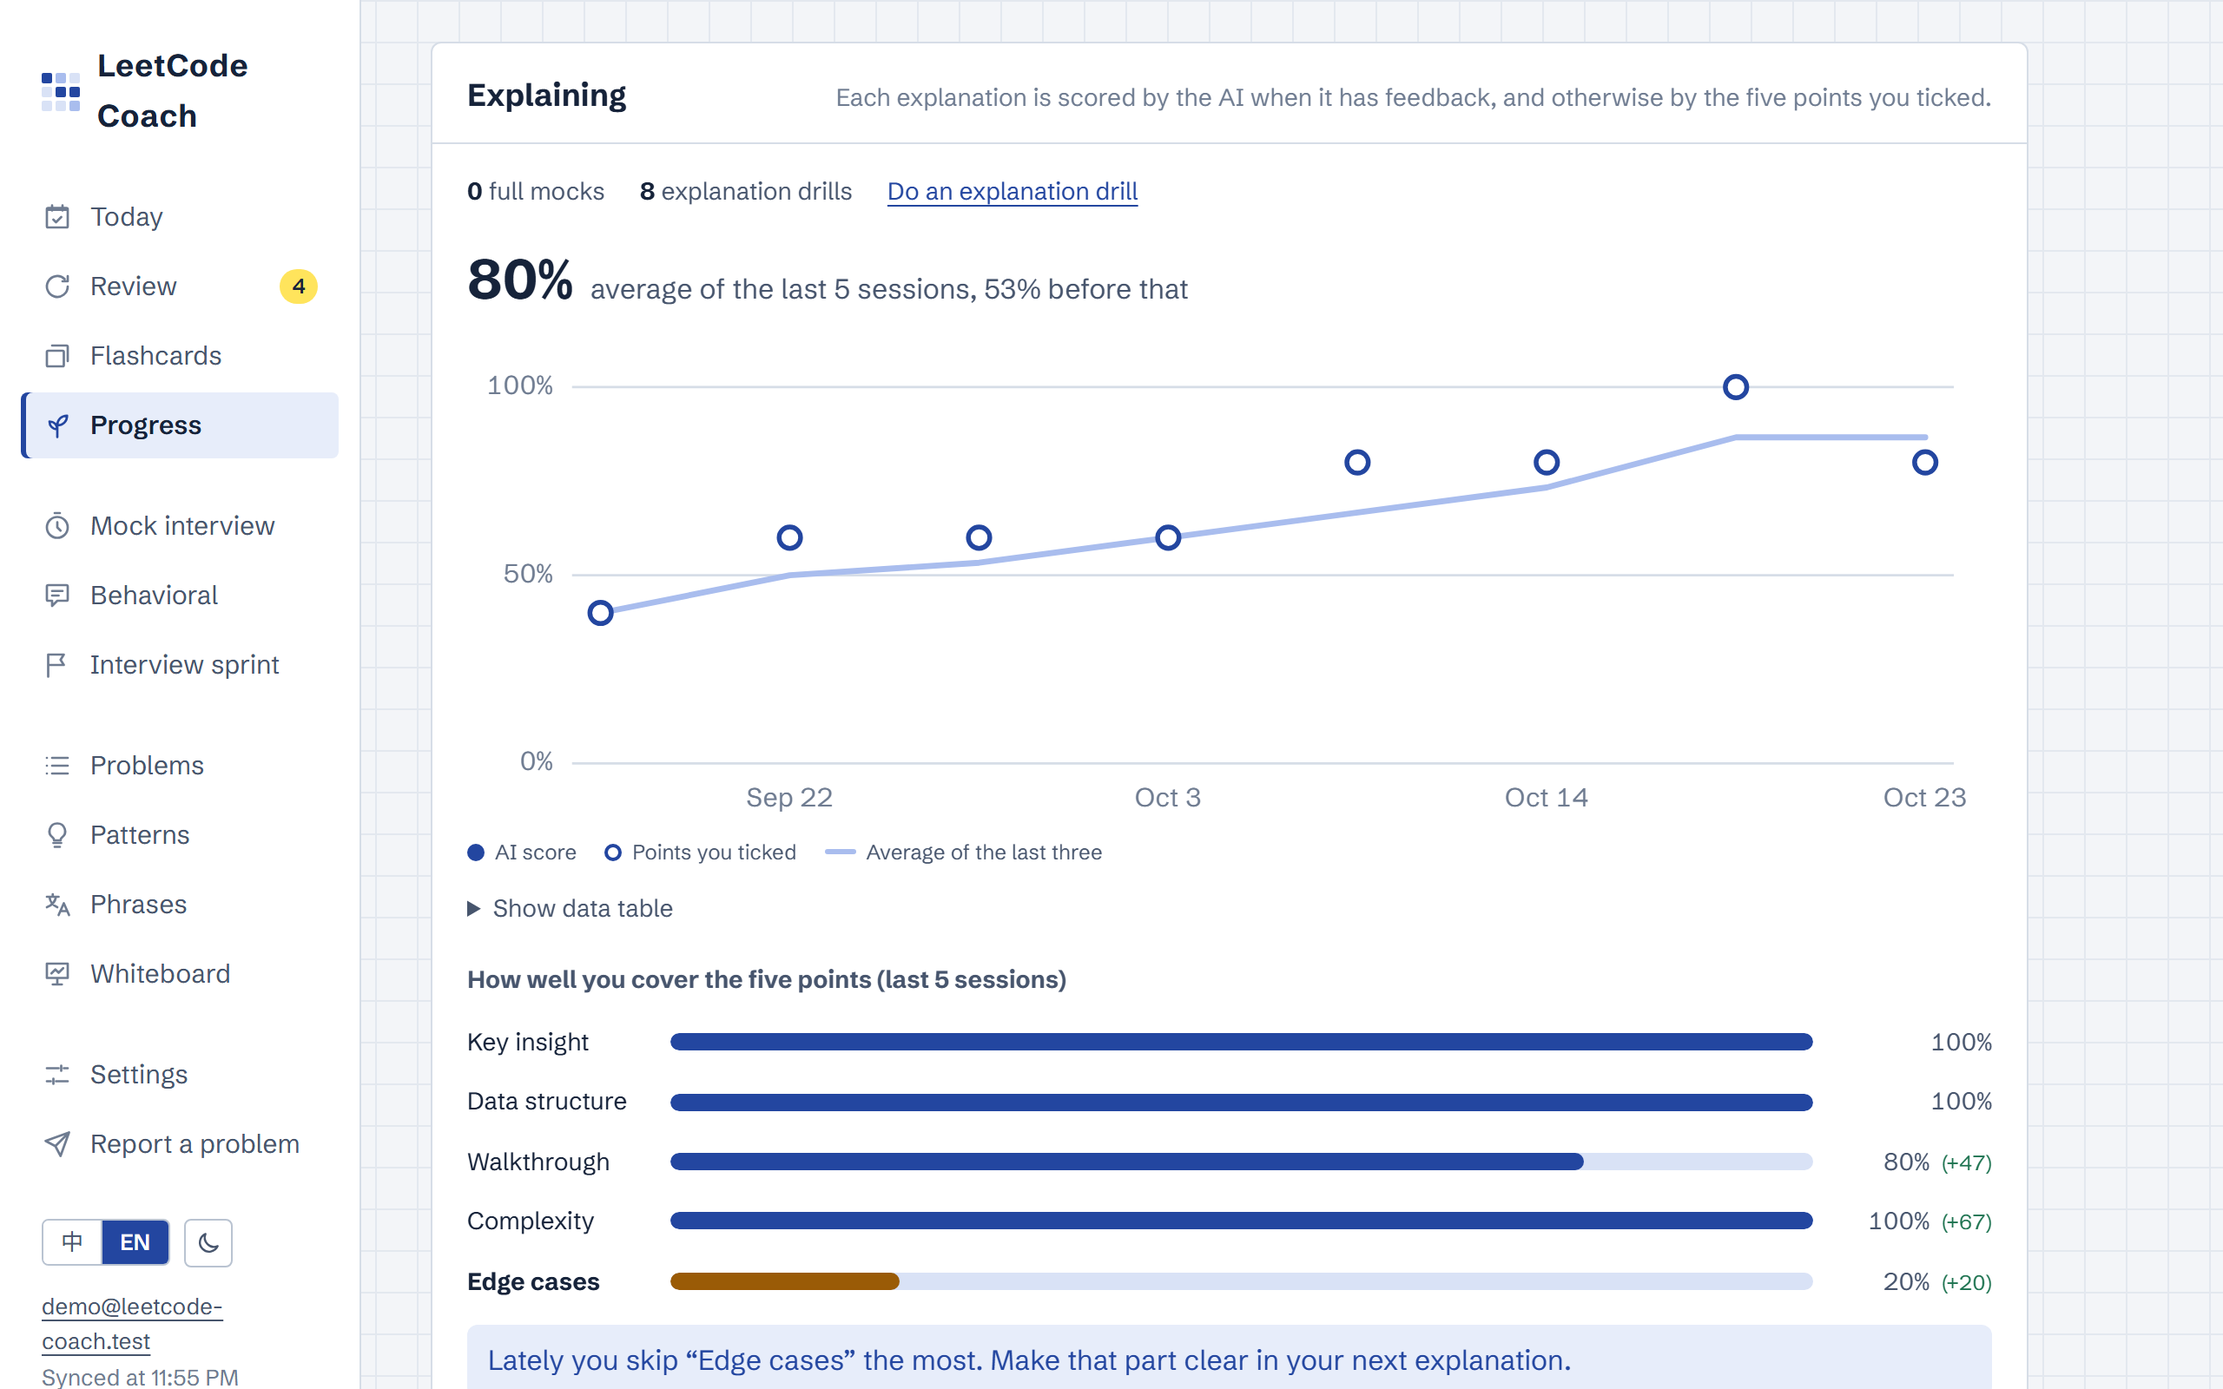
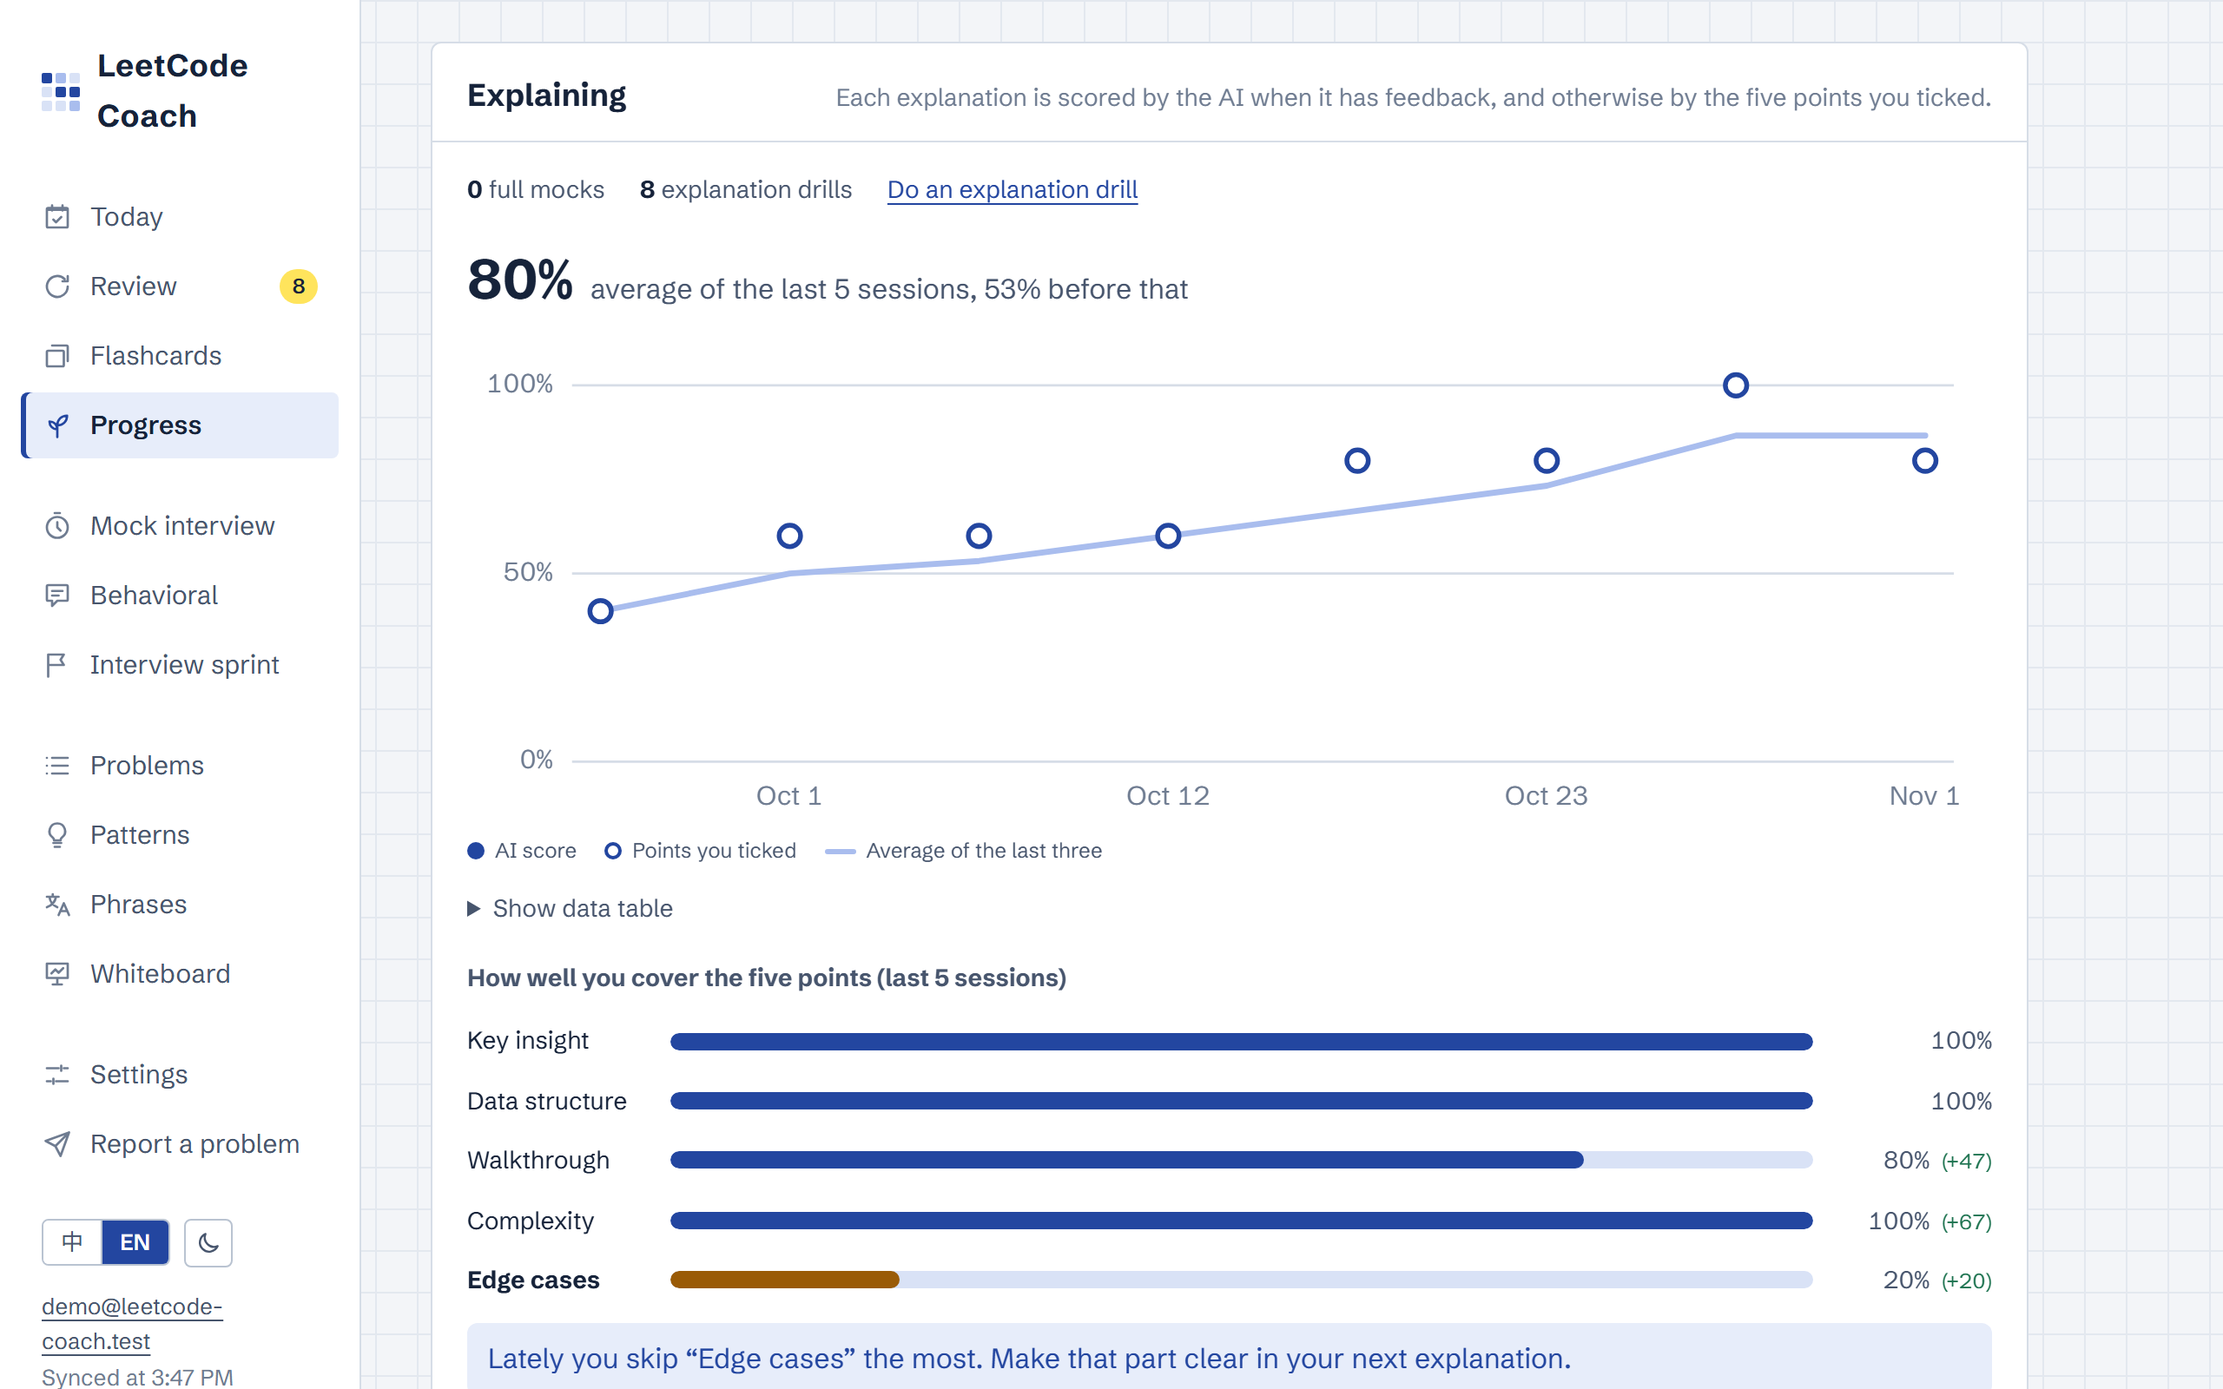
Show how many problems are fading and list them in one click
The orange dot marks problems you haven't touched in a while, but
nothing told you what to do about them. They are already due: the
lowest target retention is 80%, so a problem falls due before its
recall drops under 70% and gets a dot, and reviews already put the
most forgotten first. What was missing was seeing that.

- Progress says how many problems have a dot, under the mastery grid,
  with a link to them. It stays hidden when nothing has faded.
- Problems has a new status filter, Fading (orange dot), using the
  same fadeOf as the dot.
- Retook the README screenshots; the practice page now shows the short
  step labels and the timer icons. README describes the new note and
  filter, and AGENTS.md drops job-hunt tracking from the backlog since
  it lives in another project.

diff --git a/src/pages/ProblemsPage.tsx b/src/pages/ProblemsPage.tsx
@@ -12,11 +12,13 @@ import { inList, LIST_FILTERS } from '../lib/catalog';
 import { IMPORT_DUE_PER_DAY, schedule, stageOf, STAGES, type Rating, type Stage } from '../lib/srs';
 import { markSolvedBefore, updateSettings } from '../store/actions';
 import { retentionOf } from '../store/progress';
+import { fadeOf } from '../lib/tree';
 import { useCatalog, useCompanies, useMetaMap, useProgressMap, useSettings, useToday } from '../store/queries';
 
-type StatusFilter = 'any' | 'due' | Stage;
+// fading：很久沒碰、方格右上角有橘點的題目（門檻跟演算法樹的黃葉一樣）
+type StatusFilter = 'any' | 'due' | 'fading' | Stage;
 
-const STATUS_FILTERS: StatusFilter[] = ['any', 'due', ...STAGES];
+const STATUS_FILTERS: StatusFilter[] = ['any', 'due', 'fading', ...STAGES];
 const DIFFICULTIES: Difficulty[] = ['Easy', 'Medium', 'Hard'];
 
 function pick<T extends string, F extends string>(value: string | null, allowed: readonly T[], fallback: F): T | F {
@@ -69,7 +71,8 @@ export function ProblemsPage() {
       if (difficulty !== 'any' && p.difficulty !== difficulty) return false;
       const state = progress.get(p.id);
       if (status === 'due' && !(state && state.due <= day)) return false;
-      if (status !== 'any' && status !== 'due' && stageOf(state) !== status) return false;
+      if (status === 'fading' && !fadeOf(state, day)) return false;
+      if (status !== 'any' && status !== 'due' && status !== 'fading' && stageOf(state) !== status) return false;
       if (company !== 'any' && !metaMap.get(p.id)?.companies.includes(company)) return false;
       if (q && !p.title.toLowerCase().includes(q) && String(p.id) !== q) return false;
       return true;
@@ -88,7 +91,7 @@ export function ProblemsPage() {
   );
   const listStarted = listTotal.filter((p) => progress.has(p.id)).length;
   const statusLabel = (s: StatusFilter) =>
-    s === 'any' ? t.problems.statusAny : s === 'due' ? t.problems.statusDue : t.stages[s];
+    s === 'any' ? t.problems.statusAny : s === 'due' ? t.problems.statusDue : s === 'fading' ? t.problems.statusFading : t.stages[s];
 
   // 已經有紀錄的題目不能批次標記；標記完成後自動從選取中消失
   const selectedIds = [...selected].filter((id) => !progress.has(id));

diff --git a/src/pages/ProgressPage.tsx b/src/pages/ProgressPage.tsx
@@ -24,6 +24,7 @@ import {
   weeklyCounts,
 } from '../lib/stats';
 import { STUCK_WINDOW_DAYS, summarizeStuck } from '../lib/stuck';
+import { fadeOf } from '../lib/tree';
 import { retentionOf } from '../store/progress';
 import { useAttempts, useCardReviews, useCatalog, useMetaMap, useMocks, useProgressMap, useRehearsals, useSettings, useToday } from '../store/queries';
 
@@ -58,6 +59,8 @@ export function ProgressPage() {
 
   const started = problems.filter((p) => progress.has(p.id)).length;
   const mastered = problems.filter((p) => stageOf(progress.get(p.id)) === 'mastered').length;
+  // 有橘點（很久沒碰）的題數；複習清單本來就把最可能忘的排前面，這裡讓人看得到是哪幾題
+  const fading = problems.filter((p) => fadeOf(progress.get(p.id), day) > 0).length;
   // 做過微複習的日子也算連續天數
   const streak = practiceStreak(streakDays(allAttempts, cardReviews ?? [], rehearsals ?? []), day);
   // 熱度圖的範圍：練題目或做微複習都算有練習的一天，和連續天數的算法一樣
@@ -197,6 +200,13 @@ export function ProgressPage() {
                     {t.legend.hint}
                   </p>
                 </div>
+                {fading > 0 && (
+                  <p className="sheet-note" style={{ marginTop: 10 }}>
+                    {rich(t.progress.fading(fading), {
+                      link: (text) => <Link to={`/problems?list=${list}&status=fading`}>{text}</Link>,
+                    })}
+                  </p>
+                )}
                 {weakest && (
                   <p className="sheet-note" style={{ marginTop: 10 }}>
                     {t.progress.weakestTip(getPattern(weakest.pattern, locale).name)}

diff --git a/e2e/fade.spec.ts b/e2e/fade.spec.ts
@@ -41,4 +41,23 @@ test('marks long-untouched problems with a dot on the mastery cell, without drop
   const legend = mastery.getByLabel('Legend');
   await expect(legend).toContainText('Fading');
   await expect(legend).toContainText('Probably forgotten');
+
+  // 進度頁寫有幾題很久沒碰，連到題目列表的「很久沒碰」篩選，只列出有橘點的題
+  await expect(mastery).toContainText('1 problem hasn’t been touched in a while (orange dot).');
+  await mastery.getByRole('link', { name: 'See which ones' }).click();
+  await expect(page).toHaveURL(/#\/problems\?.*status=fading/);
+  await expect(page.getByLabel('Status')).toHaveValue('fading');
+  await expect(page.locator('.problem-row')).toHaveCount(1);
+  await expect(page.getByRole('link', { name: 'Two Sum', exact: true })).toBeVisible();
+});
+
+test('shows no fading note on Progress when nothing has faded', async ({ page }) => {
+  await page.clock.setFixedTime(start);
+  await page.goto('/#/practice/1');
+  await page.getByRole('group', { name: 'While solving' }).getByRole('button', { name: 'I’m done' }).click();
+  await page.getByRole('button', { name: /^Solved alone/ }).click();
+  await page.getByRole('region', { name: 'Record this attempt' }).getByRole('button', { name: 'Save', exact: true }).click();
+  await expect(page.getByRole('status')).toContainText('Saved. Next review');
+  await page.goto('/#/progress');
+  await expect(page.locator('.sheet:has(#mastery)')).not.toContainText('touched in a while');
 });

diff --git a/src/i18n/messages/en.ts b/src/i18n/messages/en.ts
@@ -532,6 +532,7 @@ const en: Messages = {
     status: 'Status',
     statusAny: 'Any status',
     statusDue: 'Due for review',
+    statusFading: 'Fading (orange dot)',
     company: 'Company',
     allCompanies: 'All companies',
     search: 'Search',
@@ -1126,6 +1127,8 @@ const en: Messages = {
     weakest: (pattern) => `Weakest right now: <link>${pattern}</link>`,
     emptyList: 'This list has no problems.',
     cellLabel: (title, stage) => `${title}, ${stage}`,
+    fading: (n) =>
+      `${count(n, 'problem')} ${n === 1 ? 'hasn’t' : 'haven’t'} been touched in a while (orange dot). Today’s reviews put the most forgotten first. <link>See which ones</link>`,
     weakestTip: (pattern) => `Try a mock interview with “Attempted but weakest” and the pattern set to ${pattern}.`,
     weeklyTitle: 'Sessions per week',
     weeklyNote: 'New problems, reviews, and mock interviews',

diff --git a/src/i18n/messages/zh-TW.ts b/src/i18n/messages/zh-TW.ts
@@ -525,6 +525,7 @@ const zhTW = {
     status: '狀態',
     statusAny: '全部狀態',
     statusDue: '該複習',
+    statusFading: '很久沒碰（有橘點）',
     company: '公司',
     allCompanies: '全部公司',
     search: '搜尋',
@@ -1104,6 +1105,7 @@ const zhTW = {
     weakest: (pattern: string) => `目前最弱：<link>${pattern}</link>`,
     emptyList: '這份清單沒有題目。',
     cellLabel: (title: string, stage: string) => `${title}，${stage}`,
+    fading: (n: number) => `${n} 題很久沒碰，右上角有橘點。今天的複習會先排最可能忘的。<link>看是哪幾題</link>`,
     weakestTip: (pattern: string) => `建議到模擬面試選「做過但最不熟的題目」，並把模式限定為${pattern}。`,
     weeklyTitle: '每週練習次數',
     weeklyNote: '含新題、複習與模擬面試',

diff --git a/README.md b/README.md
@@ -52,7 +52,7 @@ Screenshots use generated demo data and are regenerated with `npm run screenshot
   - **Time counts too.** Each attempt's minutes are compared with the problem's target time. Within the target it counts fully; past it, the memory gain shrinks steadily, down to 0.6 at twice the target (about what FSRS gives Hard). Finishing early adds nothing extra.
   - **So do hints and where you got stuck.** The deeper the hints went, the less the attempt counts: compared with solving alone, about 0.8 after the pattern hint, 0.6 after the key insight, 0.5 after the edge cases, and 0.4 after the template. No approach, can't optimize, or can't code it means part of it is forgotten (×0.75); syntax / API or logic / edge cases is more of a slip (×0.9). These weights multiply.
   - **Fast and explained clearly counts as Easy.** Solving it alone in half the target time or less, with no hints and nothing ticked as stuck, *and* explaining it clearly within 3 days (before or after), counts as FSRS's Easy, so the interval grows the most. A fast solve without a clear explanation is an ordinary solo solve, and the breakdown suggests explaining it once. "Clear" means an AI score of 80% or more across the five points, or, without AI, all five points ticked and "Smooth".
-  - **Stages and mastery squares**: Learning (under 7 days), Reviewing (7–29), Remembered (30 or more), and Mastered (30 or more *and* your latest explanation was clear), one square shade each. A remembered problem that isn't explained yet says so on its page. The shade is how far you got, so it doesn't drop with time; a problem you haven't touched in a while gets an orange dot in the corner instead (hollow when fading, filled when probably forgotten, the same thresholds as the tree's yellow and dry leaves), and hovering it says how many days it's been.
+  - **Stages and mastery squares**: Learning (under 7 days), Reviewing (7–29), Remembered (30 or more), and Mastered (30 or more *and* your latest explanation was clear), one square shade each. A remembered problem that isn't explained yet says so on its page. The shade is how far you got, so it doesn't drop with time; a problem you haven't touched in a while gets an orange dot in the corner instead (hollow when fading, filled when probably forgotten, the same thresholds as the tree's yellow and dry leaves), and hovering it says how many days it's been. Progress says how many problems have a dot and links to the Problems list filtered to them (status **Fading**); they're already due, and reviews put the most forgotten first.
   - **Shaky solves come back within a week.** After needing a hint, taking twice the target or longer, or getting stuck with no approach, unable to optimize, or unable to code it, the next review is at most 7 days away, so you confirm it before the interval grows. FSRS's memory estimate is kept, so solving it on time then stretches the next interval out again.
   - **Why this many days?** The record form (once you pick a rating) and the problem page open a step-by-step breakdown: how long since last time and how much you'd still remember, what the rating means in FSRS, each weight with its number, memory before and after, the days at the target retention, and the one-week check if it applies.
   - The review page shows the **next 7 days**: how many reviews come due each day, with anything over the daily cap drawn dashed on top as it moves to later days.
@@ -362,7 +362,7 @@ Notes:
 - **寫題時間也算進去**：每次花的時間跟這題的目標時間比，在目標以內照算；超過就打折，越慢折越多，到兩倍時間是 0.6（跟 FSRS 給 Hard 的差不多）。寫得比目標快不另外加分。
 - **提示看到第幾層、卡在哪也算進去**：看的提示越深，這次算得越少；跟自己解出比，看到題型約 0.8、關鍵觀察 0.6、邊界情況 0.5、模板 0.4。沒思路、不會優化、有思路寫不出來代表忘了一部分（× 0.75）；語法／API 不熟、邏輯／邊界比較像失誤（× 0.9）。幾個權重相乘。
 - **很快解出又講得清楚，算「很輕鬆」**：自己解出、時間在目標的一半以內、沒看提示也沒卡住，**而且**前後 3 天內用英文講清楚過一次，算 FSRS 的 Easy，間隔長得最多。很快但沒講清楚只算一般的自己解出，說明裡會提示去講一次。「講清楚」是 AI 評分五個重點平均八成以上；沒有 AI 時五個重點都勾了，而且自評「講得很順」。
-- **階段和熟練度方格**：學習中（不到 7 天）、複習中（7–29 天）、記得住（30 天以上）、已熟練（30 天以上，**而且最近一次講解講得清楚**），方格的四格一一對應。記得住但還沒講清楚的題目，題目頁會寫「只差講解」。方格的顏色代表曾經練到哪，不會隨時間掉；很久沒碰的題目右上角多一個橘點（空心是有點忘了、實心是可能忘了，門檻跟演算法樹的黃葉、枯葉一樣），滑過去會寫幾天沒碰。模擬面試挑「做過但最不熟的題目」時，熟練度會乘上現在還記得的機率，很久沒碰的題會排前面。
+- **階段和熟練度方格**：學習中（不到 7 天）、複習中（7–29 天）、記得住（30 天以上）、已熟練（30 天以上，**而且最近一次講解講得清楚**），方格的四格一一對應。記得住但還沒講清楚的題目，題目頁會寫「只差講解」。方格的顏色代表曾經練到哪，不會隨時間掉；很久沒碰的題目右上角多一個橘點（空心是有點忘了、實心是可能忘了，門檻跟演算法樹的黃葉、枯葉一樣），滑過去會寫幾天沒碰。進度頁會寫有幾題有橘點，連到題目列表的「很久沒碰」篩選；這些題都已經到期，複習會先排最可能忘的。模擬面試挑「做過但最不熟的題目」時，熟練度會乘上現在還記得的機率，很久沒碰的題會排前面。
 - **寫得不順先在一週內確認**：看了提示、花了兩倍以上的時間，或卡在沒思路、不會優化、有思路寫不出來，下次最多 7 天後再複習；穩定度照 FSRS 算，確認那次準時寫出來，下一次就會拉長。
 - **為什麼隔這幾天**：記錄表單選了評分之後，和題目頁，都可以打開一步一步的算法：隔了幾天、還記得多少、評分在 FSRS 算什麼、每個權重和它的數字、記憶度前後、照目標記憶率的天數，以及要不要一週內確認。
 - 複習頁有**接下來 7 天**：每天有幾題到期；超過每天上限、往後排的用虛線疊在上面。

diff --git a/AGENTS.md b/AGENTS.md
@@ -118,4 +118,4 @@ e2e/                 Playwright；fake-github.mjs 是測試用的假 GitHub
 
 - 使用者要做的設定：Render 補上 `AI_ALLOWED_EMAILS`；選用的 `SENTRY_DSN`、`ADMIN_EMAILS`。
 - 跟朋友互相模擬面試（面試官看題目和評分表，兩邊共用白板）。
-- 求職進度追蹤、資料模型的 ER 圖（Mermaid）。
+- 資料模型的 ER 圖（Mermaid）。求職進度追蹤使用者在別的專案做了，這裡不做。
